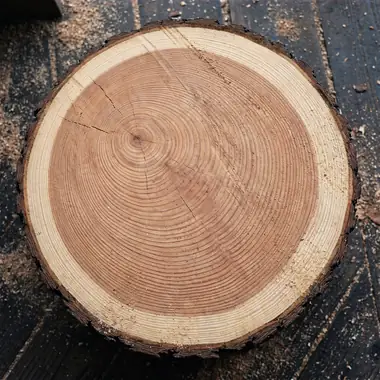
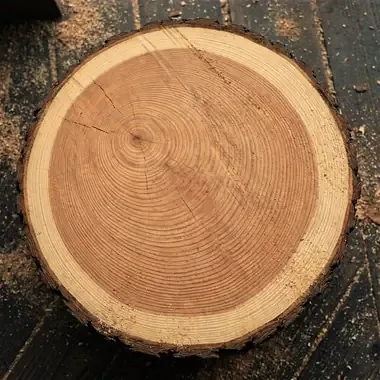
杉戸工務店：ヒーローを焼杉の面に建て替え、記録票を追加、スマホを通す
ヒーロー
- 外壁の焼杉を全面に敷き、色や飾りではなく実物でインパクトを出す
- 縦画面には縦位置の別カットを渡す（横位置のままだと板一枚まで寄って構図が消える）
- 沈めるのは幕ではなく乗算（brightness）。一律のアルファ幕は黒を持ち上げて
  木目＝局所コントラストを先に殺すうえ、文字のコントラストも上がらない
- 木口は白縁のプリントとして壁に留め、境界を意図的にする

仕事のしかた
- 罫線の幅に対して本文が6割しか埋めていなかった空きを、装飾ではなく記録票で埋める
- 3列時は本文の行長上限を外し、和文23字から33字に

スマホ
- 見出しが常に下限28pxに張り付いていた（6.4vwが390px幅で25px）。縦画面の係数で引き直す
- 木口が見出しとリードの間に293px積まれてCTAが画面外へ出ていたので、本文の下へ移す
- 切り位置を62%へ。中央だと画像左端の遠景が明るい縦帯として残る

コントラスト（実測・字が載っている行矩形で判定）
- スマホ: リード3.55から5.01、添え字2.54から5.94。最小5.01でAA全項目通過
- デスクトップ: 見出し2.80から4.74、label 3.93から4.99、リード4.28から5.17
- 写真上の添え字は無地用の淡色では足りないため #C6C0B6 を別に持つ

diff --git a/demo4-sugito/index.html b/demo4-sugito/index.html
@@ -41,7 +41,8 @@
   /* 型スケール：見出しは3段しか持たない */
   /* 2行目「いちばん下手な状態です。」= 和文12字が、375px でも 1280px でも
      1行に収まる範囲に抑えている。折れると語の途中で割れるため */
-  --fs-display: clamp(26px, 5.9vw, 68px);
+  /* ヒーローは面で押すので、見出しも幅を使い切るところまで上げる（上限68→92px） */
+  --fs-display: clamp(28px, 6.4vw, 92px);
   --fs-h2:      clamp(21px, 3vw, 31px);
   --fs-h3:      17px;
 
@@ -190,12 +191,43 @@ body::before {
 
 /* ── ヒーロー ─────────────────────────────────────── */
 .s-hero {
+  /* 焼杉の面の上に立つので、文字と枠は漆喰側へ反転する */
   position: relative;
+  isolation: isolate;
   min-height: 100svh;
   display: grid;
   align-content: center;
   padding: 140px 0 var(--sp-l);
+  background: var(--yami);
+  color: var(--shikkui);
 }
+.hero-bg { position: absolute; inset: 0; z-index: -2; overflow: hidden; }
+/* 沈めるのは幕ではなく乗算で。アルファ幕は黒を持ち上げて木目（局所コントラスト）を潰すが、
+   brightness は階調比を保ったまま暗くする。見出しは全幅なので右の明るい板にも乗る。
+   実測: 無処理だと見出し 2.8:1・label 3.9:1・リード 4.3:1 とAAを割っていた */
+.hero-bg img { width: 100%; height: 100%; object-fit: cover; filter: brightness(.78); }
+/* 焼杉はもともと暗いので幕は薄くてよい。厚くすると素材が消え、ただの黒い面になる
+   （＝インパクトの出所を自分で潰す）。
+   黒ではなく焦茶で沈めるのは、夕方の光の暖かさを殺さないため。
+   ここを黒でやると、下の年輪の写真とまた温度がずれる。 */
+.s-hero::before {
+  content: ""; position: absolute; inset: 0; z-index: -1;
+  background:
+    linear-gradient(100deg, rgba(26,18,12,.74) 0%, rgba(26,18,12,.58) 42%, rgba(26,18,12,.28) 76%, rgba(26,18,12,.14) 100%),
+    linear-gradient(to top, rgba(26,18,12,.52) 0%, rgba(26,18,12,0) 32%);
+}
+.s-hero .hero-lead { color: #CFC9C0; }
+/* 添え字は写真の上に乗るので --yami-bun（無地の闇に対して設計した色）では足りない。
+   実測: 焼杉の明るい板の上で 3.4:1 まで落ちる。#C6C0B6 で 5.0:1 以上。
+   リード #CFC9C0 よりわずかに暗く、階層は保つ */
+.s-hero .label,
+.s-hero .hero-meta { color: #C6C0B6; }
+.s-hero .hero-meta::before { background: rgba(239,235,228,.34); }
+.s-hero .btn { border-color: var(--shikkui); color: var(--shikkui); }
+.s-hero .btn-fill { background: var(--shikkui); color: var(--sumi); border-color: var(--shikkui); }
+.s-hero .btn-fill:hover { background: var(--ao); border-color: var(--ao); color: var(--shikkui); }
+.s-hero .btn-line::before { background: var(--shikkui); }
+.s-hero .btn-line::after { color: var(--sumi); }
 /* 見出しは全幅を使い、その下だけ2段組にする。
    狭い左カラムに大きな和文見出しを流し込むと必ず語の途中で折れるため */
 .s-hero .wrap {
@@ -214,8 +246,9 @@ body::before {
 .hero-wood  { grid-area: wood; }
 .hero-head {
   font-size: var(--fs-display);
-  line-height: 1.3;
+  line-height: 1.22;
   margin: 18px 0 var(--sp-m);
+  text-shadow: 0 2px 24px rgba(16,17,18,.55);
   /* 和文の見出しは字間を詰めない（字面が余白を内蔵している）。
      精密さは行間・余白・階層で出す */
 }
@@ -284,24 +317,47 @@ body::before {
 .btn-line:active { transform: translateY(1px); }
 
 @media (max-width: 860px) {
-  .s-hero { min-height: auto; padding: 116px 0 var(--sp-l); }
+  .s-hero { min-height: 100svh; padding: 100px 0 var(--sp-l); }
+  /* 縦画面は文字が上から下まで乗るので、横方向の幕では効かない。
+     ただし一律のアルファ幕で沈めると黒が持ち上がり、局所コントラスト＝木目が消える。
+     実測でも幕 .78/.56/.70 の一枚掛けは素材を平らにしたうえで
+     リード 3.55:1・meta 2.54:1 とAA基準を割っていた。
+     沈めるのは乗算（brightness）で、幕は文字の下を均すぶんだけに留める。 */
+  /* 縦画面は横幅の65%しか映らない。中央で切ると画像左端の遠景（明るい空と丘）が
+     数十pxだけ入り、板の面に沿った明るい縦帯＝汚れに見える。右へ寄せて落とす */
+  .hero-bg img { filter: brightness(.40); object-position: 62% center; }
+  .s-hero::before {
+    background:
+      linear-gradient(to bottom, rgba(26,18,12,.32) 0%, rgba(26,18,12,.12) 46%, rgba(26,18,12,.32) 100%);
+  }
+  /* 縦画面では「宣言→説明→行動」を1画面に収める。
+     木口を見出しとリードの間に挟むと 293px 積まれてCTAが画面外へ出るため、
+     木口は次の拍として本文の下に置く */
   .s-hero .wrap {
     grid-template-columns: 1fr;
-    grid-template-areas: "label" "head" "wood" "body";
+    grid-template-areas: "label" "head" "body" "wood";
     row-gap: 0;
   }
+  /* --fs-display の 6.4vw は 390px 幅では 25px にしかならず、常に下限の 28px に張り付く。
+     つまり全スマホで見出しがリード文＋αの大きさになり、ヒーローの主役が消える。
+     縦画面は縦画面の係数で引き直す（860px超はデスクトップ式に戻る） */
+  .hero-head { font-size: clamp(32px, 8.8vw, 46px); }
   .hero-head .l2 { text-indent: 0; }
+  .hero-meta { margin-top: var(--sp-m); }
   /* 縦積みになると木口が主役を食うので上限をかける */
-  .hero-wood { max-width: 260px; margin: 0 auto var(--sp-m); width: 100%; }
+  .hero-wood { max-width: 240px; margin: var(--sp-m) auto 0; width: 100%; }
 }
 
 /* ── 木口（実写＋図解の動き） ─────────────────────── */
 .hero-wood { perspective: 900px; }
 .koguchi {
   position: relative; aspect-ratio: 1 / 1;
-  /* 記録写真の「プリント」として扱う：ヘアライン＋淡い影で紙面に座らせる */
-  border: 1px solid var(--kei);
-  box-shadow: 0 26px 50px -34px rgba(31, 29, 26, .4);
+  /* 記録写真の「プリント」として扱う：ヘアライン＋淡い影で紙面に座らせる。
+     暗い写真の上に置くようになったので、細いヘアラインでは
+     「切り取った長方形」に見えてしまう。白い縁と落ち影で
+     "壁に留めた一枚のプリント" として読ませ、境界を意図的にする。 */
+  border: 7px solid #EDE7DC;
+  box-shadow: 0 30px 60px -28px rgba(10, 7, 4, .78), 0 2px 6px rgba(10, 7, 4, .4);
   /* スクロール追従＋カーソルへの微傾（±3°）。全て描画のみ、レイアウト不変 */
   transform: translate3d(0, calc(var(--par, 0) * -26px), 0)
              rotateX(var(--tiltX, 0deg)) rotateY(var(--tiltY, 0deg));
@@ -320,6 +376,9 @@ body::before {
 /* 育つ前の部分。暗く沈めると背景（漆喰色）の上で黒い塊になるので、
    彩度を抜いて明るく飛ばし、輪郭だけ残す */
 .koguchi-base { filter: grayscale(.92) brightness(1.14) contrast(.5); opacity: .5; }
+/* ヒーローが暗い写真になったので、白く飛ばす処理では下敷きが消えてしまう。
+   暗い側へ沈めて輪郭を残し、年輪が育つと色と明るさが戻る、という向きに反転させる */
+.s-hero .koguchi-base { filter: grayscale(.6) brightness(.62) contrast(.95); opacity: .9; }
 /* 上に重ねた同じ写真を、髄を中心にした円で切り出して広げる */
 .koguchi-grow {
   position: absolute; inset: 0;
@@ -335,6 +394,8 @@ body::before {
   font-family: var(--mono); font-size: 11px; letter-spacing: .1em; color: var(--usu);
   text-align: right;
 }
+/* ヒーローが暗くなったので、添え書きも漆喰側へ */
+.s-hero .koguchi-note { color: var(--yami-bun); }
 .koguchi-note b { font-weight: 400; font-variant-numeric: tabular-nums; }
 /* 余白が十分ある画面では、写真の右の余白に縦で添える（数字は縦中横） */
 @media (min-width: 1100px) {
@@ -493,8 +554,35 @@ section { padding-block: var(--sp-x); }
   margin-top: var(--sp-s); padding-left: var(--sp-m);
   border-left: 2px solid var(--kei); font-family: var(--mincho); color: var(--sumi);
 }
+
+/* 記録票。この工務店が「記録を渡す」と言っている、その現物を右に置く。
+   罫線が引いた幅に対して本文が6割しか埋めていなかったので、
+   空きを装飾ではなく証拠で埋める。 */
+.shigoto-rec { align-self: start; background: var(--kinari); padding: var(--sp-m); }
+.shigoto-rec-num {
+  font-family: var(--mincho); color: var(--ao);
+  display: flex; align-items: baseline; gap: 5px; line-height: 1;
+}
+.shigoto-rec-num b { font-size: 44px; font-weight: 400; letter-spacing: .01em; }
+.shigoto-rec-num span { font-size: 13px; }
+.shigoto-rec-cap { font-family: var(--gothic); font-size: 12px; color: var(--usu); margin-top: 8px; }
+.shigoto-rec dl { margin-top: var(--sp-m); border-top: 1px solid var(--kei); }
+.shigoto-rec div {
+  display: flex; justify-content: space-between; gap: 10px;
+  padding: 8px 0; border-bottom: 1px solid var(--kei);
+  font-family: var(--mono); font-size: 12px; line-height: 1.6;
+}
+.shigoto-rec dt { color: var(--usu); white-space: nowrap; }
+.shigoto-rec dd { color: var(--sumi); text-align: right; }
+
+@media (min-width: 900px) {
+  .shigoto-item { grid-template-columns: 88px minmax(0, 1fr) 292px; }
+  /* 3列のときは列幅が行長を決めるので、本文側の上限は外す（和文で約33字になる） */
+  .shigoto-item p { max-width: none; }
+}
 @media (max-width: 640px) {
   .shigoto-item { grid-template-columns: 1fr; gap: var(--sp-s); }
+  .shigoto-rec { margin-top: var(--sp-m); }
 }
 
 /* ── 矩計図 ───────────────────────────────────────── */
@@ -645,7 +733,22 @@ section { padding-block: var(--sp-x); }
 <main id="main">
 
   <!-- ══ ヒーロー ══════════════════════════════════ -->
-  <section class="s-hero">
+  <section class="s-hero" data-dark>
+    <!-- 外壁の焼杉を面として敷く。工務店が売っているのは材料なので、
+         インパクトを色や飾りではなく「実物」で出す。
+         暗い外に立ってから、次の節で明るい屋内へ入る流れにもなる。 -->
+    <div class="hero-bg" aria-hidden="true">
+      <!-- 横長のまま縦画面に流すと、板一枚まで寄って構図が消える。
+           縦画面には縦位置で撮った別カットを渡す。 -->
+      <picture>
+        <source media="(max-width: 860px)"
+                srcset="img/hero-yakisugi-v-600.webp 600w, img/hero-yakisugi-v-1000.webp 768w"
+                sizes="100vw" width="768" height="1376">
+        <img src="img/hero-yakisugi-1800.webp"
+             srcset="img/hero-yakisugi-900.webp 900w, img/hero-yakisugi-1800.webp 1376w"
+             sizes="100vw" width="1376" height="768" alt="" fetchpriority="high" decoding="async">
+      </picture>
+    </div>
     <div class="wrap">
       <p class="label c-fade hero-label" style="--d:0ms">Sugito Koumuten / est. 1961</p>
         <h1 class="hero-head">
@@ -671,13 +774,13 @@ section { padding-block: var(--sp-x); }
         <div class="koguchi" id="koguchi">
           <img class="koguchi-base" src="img/koguchi-760.webp"
                srcset="img/koguchi-380.webp 380w, img/koguchi-760.webp 760w"
-               sizes="(max-width: 860px) 260px, 33vw" width="760" height="760"
+               sizes="(max-width: 860px) 240px, 33vw" width="760" height="760"
                alt="杉の丸太の木口。中心からずれた髄のまわりに約50本の年輪が広がり、外側に淡い辺材と樹皮が見える。"
                fetchpriority="high" decoding="async">
           <div class="koguchi-grow" aria-hidden="true">
             <img src="img/koguchi-760.webp"
                  srcset="img/koguchi-380.webp 380w, img/koguchi-760.webp 760w"
-                 sizes="(max-width: 860px) 260px, 33vw" width="760" height="760"
+                 sizes="(max-width: 860px) 240px, 33vw" width="760" height="760"
                  alt="" decoding="async">
           </div>
           <svg class="koguchi-edge" viewBox="0 0 100 100" aria-hidden="true">
@@ -797,6 +900,16 @@ section { padding-block: var(--sp-x); }
             <p>影がどこに落ちるかを、季節を変えて二回測ります。隣家の屋根の高さと、風がどちらから抜けるかもここで見ます。図面はそのあとです。</p>
             <p>この工程だけで二週間もらいます。着工を急いでいる方には向きません。</p>
           </div>
+          <aside class="shigoto-rec">
+            <p class="shigoto-rec-num"><b>4</b><span>回</span></p>
+            <p class="shigoto-rec-cap">敷地に立って日影を測った回数</p>
+            <dl>
+              <div><dt>春</dt><dd>03.14　8:00 / 16:00</dd></div>
+              <div><dt>夏</dt><dd>06.09　8:00 / 16:00</dd></div>
+              <div><dt>隣家の棟高</dt><dd>GL＋6,420</dd></div>
+              <div><dt>抜ける風</dt><dd>南南東</dd></div>
+            </dl>
+          </aside>
         </article>
 
         <article class="shigoto-item c-fade">
@@ -805,6 +918,16 @@ section { padding-block: var(--sp-x); }
             <h3>構造材は、車で 20 分の山から。</h3>
             <p>西川材の杉と檜。伐った日付と、山主さんの名前を書いた紙を引き渡しの資料に入れます。どの柱がどの木かも記録しています。</p>
           </div>
+          <aside class="shigoto-rec">
+            <p class="shigoto-rec-num"><b>42</b><span>本</span></p>
+            <p class="shigoto-rec-cap">産地を記録して渡した柱の数</p>
+            <dl>
+              <div><dt>樹種</dt><dd>杉・檜（西川材）</dd></div>
+              <div><dt>伐採</dt><dd>2025.01.20</dd></div>
+              <div><dt>山</dt><dd>飯能・南川</dd></div>
+              <div><dt>現場まで</dt><dd>車で 20 分</dd></div>
+            </dl>
+          </aside>
         </article>
 
         <article class="shigoto-item c-fade">
@@ -814,6 +937,16 @@ section { padding-block: var(--sp-x); }
             <p>耐力壁の位置は動かせないと言い張って、代わりに天井の高さを二段に分けました。低いほうを 2,150mm まで下げて、居間だけ 2,600mm にしています。</p>
             <p class="quote">今はその段差のところに、下のお子さんがいつも座っているそうです。</p>
           </div>
+          <aside class="shigoto-rec">
+            <p class="shigoto-rec-num"><b>450</b><span>mm</span></p>
+            <p class="shigoto-rec-cap">居間とその他でつけた天井の段差</p>
+            <dl>
+              <div><dt>居間</dt><dd>2,600</dd></div>
+              <div><dt>その他</dt><dd>2,150</dd></div>
+              <div><dt>耐力壁</dt><dd>変更なし</dd></div>
+              <div><dt>聞かれた回数</dt><dd>3 回</dd></div>
+            </dl>
+          </aside>
         </article>
       </div>
     </div>
